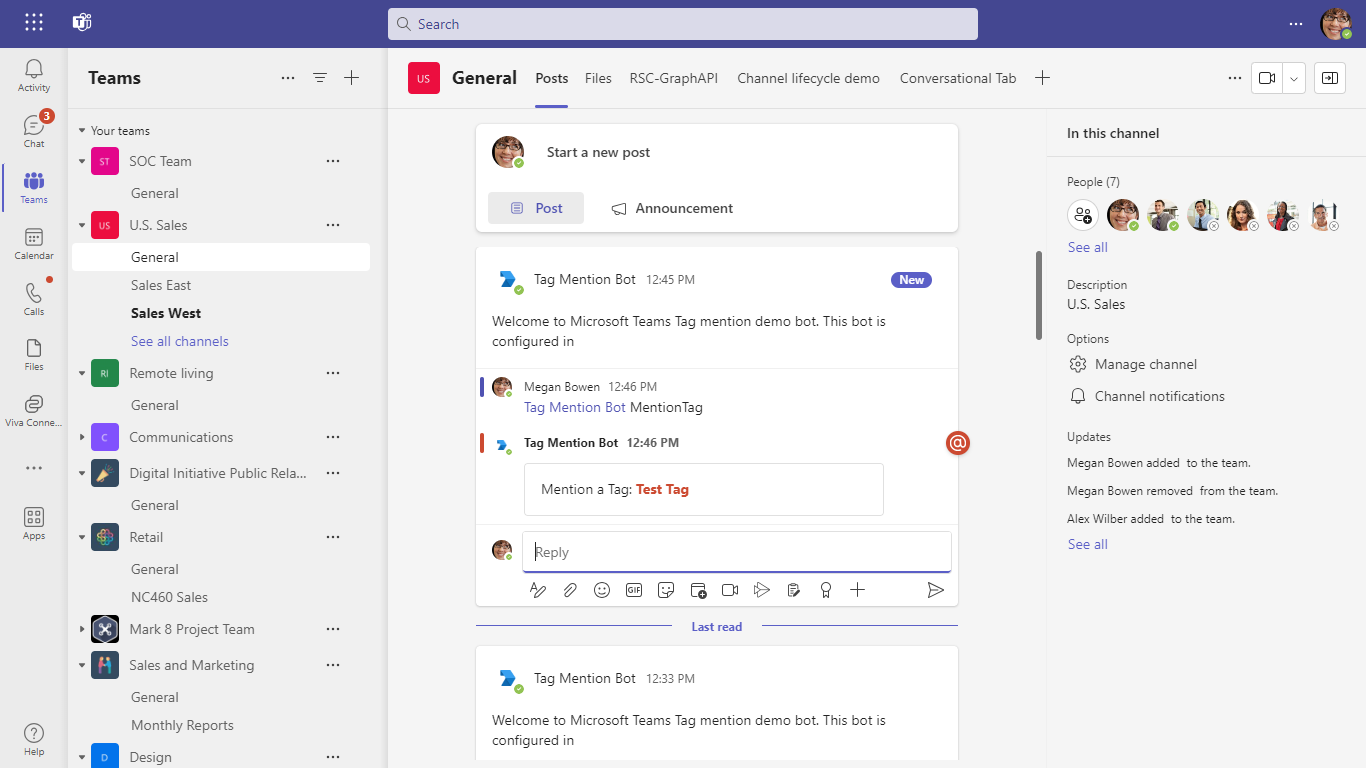
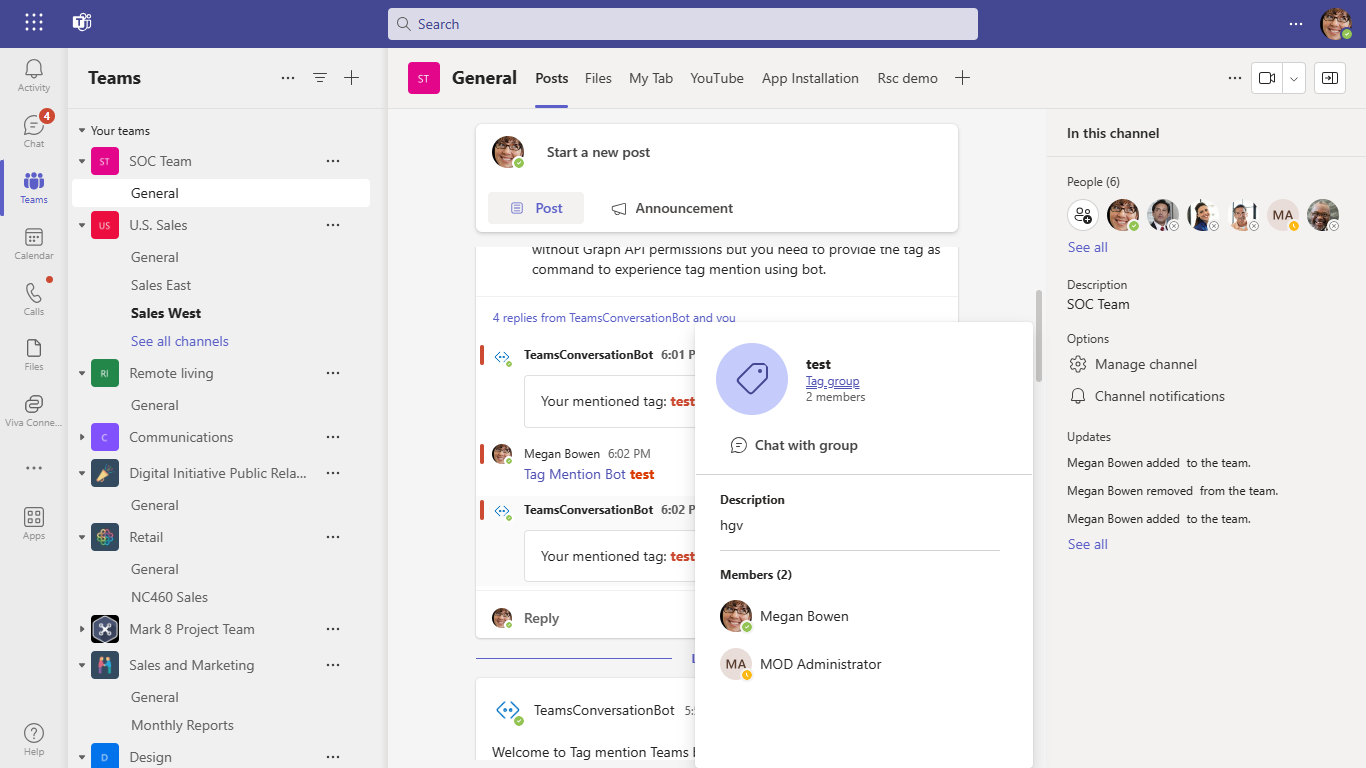
adding additional functionality changes to the code

diff --git a/samples/bot-tag-mention/csharp/Dialogs/MainDialog.cs b/samples/bot-tag-mention/csharp/Dialogs/MainDialog.cs
@@ -3,8 +3,6 @@
 // </copyright>
 
 using System;
-using System.Collections.Generic;
-using System.Diagnostics.Metrics;
 using System.IO;
 using System.Threading;
 using System.Threading.Tasks;
@@ -13,6 +11,7 @@ using Microsoft.Bot.Builder;
 using Microsoft.Bot.Builder.Dialogs;
 using Microsoft.Bot.Builder.Teams;
 using Microsoft.Bot.Schema;
+using Microsoft.Bot.Schema.Teams;
 using Microsoft.Extensions.Configuration;
 using Microsoft.Extensions.Logging;
 using Newtonsoft.Json;
@@ -57,43 +56,76 @@ namespace Microsoft.BotBuilderSamples
             return await stepContext.BeginDialogAsync(nameof(OAuthPrompt), null, cancellationToken);
         }
 
+        private async Task<ResourceResponse> TagMentionAdaptivecard(WaterfallStepContext stepContext, CancellationToken cancellationToken, string tagName, string tagId)
+        {
+            var adaptiveCardTemplate = Path.Combine(".", "Resources", "UserMentionCardTemplate.json");
+            var templateJSON = File.ReadAllText(adaptiveCardTemplate);
+            AdaptiveCardTemplate template = new AdaptiveCardTemplate(templateJSON);
+            var memberData = new
+            {
+                tagId = tagId,
+                tagName = tagName
+            };
+            string cardJSON = template.Expand(memberData);
+            var adaptiveCardAttachment = new Attachment
+            {
+                ContentType = "application/vnd.microsoft.card.adaptive",
+                Content = JsonConvert.DeserializeObject(cardJSON),
+            };
+            return await stepContext.Context.SendActivityAsync(MessageFactory.Attachment(adaptiveCardAttachment), cancellationToken);
+        }
+
         private async Task<DialogTurnResult> MentionTagAsync(WaterfallStepContext stepContext, CancellationToken cancellationToken)
         {
             // Get the token from the previous step. Note that we could also have gotten the
             // token directly from the prompt itself. There is an example of this in the next method.
             var tokenResponse = (TokenResponse)stepContext.Result;
+            bool tagExists = false;
             if (tokenResponse?.Token != null)
             {
                 try
                 {
                     stepContext.Context.Activity.RemoveRecipientMention();
-                    if (stepContext.Context.Activity.Text.Trim().ToLower() == "mentiontag")
+                    if (stepContext.Context.Activity.Text.Trim().ToLower().Contains("<at>"))
                     {
-                        // Pull in the data from the Microsoft Graph.
-                        var client = new SimpleGraphClient(tokenResponse.Token);
-                        var teamID = await TeamsInfo.GetTeamDetailsAsync(stepContext.Context, stepContext.Context.Activity.TeamsGetTeamInfo().Id, cancellationToken);
-                        var result = await client.GetTag(teamID.AadGroupId);
-                        var adaptiveCardTemplate = Path.Combine(".", "Resources", "UserMentionCardTemplate.json");
-                        var templateJSON = File.ReadAllText(adaptiveCardTemplate);
-                        AdaptiveCardTemplate template = new AdaptiveCardTemplate(templateJSON);
-                        var memberData = new
+                        var tagName = stepContext.Context.Activity.Text.Replace("<at>", string.Empty).Replace("</at>", string.Empty).Trim();
+                        var tagID = stepContext.Context.Activity.Entities[1].Properties.First.First.First.First.ToString();
+                        await TagMentionAdaptivecard(stepContext, cancellationToken, tagName, tagID);
+
+                    }
+                    else if (stepContext.Context.Activity.Text.Trim().ToLower() != "")
+                    {
+                        SimpleGraphClient client = null;
+                        TeamDetails teamDetails = null;
+                        try
                         {
-                            tagId = result.CurrentPage[0].Id,
-                            tagName = result.CurrentPage[0].DisplayName
-                        };
-                        string cardJSON = template.Expand(memberData);
-                        var adaptiveCardAttachment = new Attachment
+                            // Pull in the data from the Microsoft Graph.
+                            client = new SimpleGraphClient(tokenResponse.Token);
+                            teamDetails = await TeamsInfo.GetTeamDetailsAsync(stepContext.Context, stepContext.Context.Activity.TeamsGetTeamInfo().Id, cancellationToken);
+                        }
+                        catch (Exception ex)
                         {
-                            ContentType = "application/vnd.microsoft.card.adaptive",
-                            Content = JsonConvert.DeserializeObject(cardJSON),
-                        };
-                        await stepContext.Context.SendActivityAsync(MessageFactory.Attachment(adaptiveCardAttachment), cancellationToken);
+                            await stepContext.Context.SendActivityAsync("You don't have Graph API permissions to fetch tag's information. Please use this command to mention a tag: \"`@<Bot-name>  @<your-tag>`\" to experience tag mention using bot.");
+                        }
+                        var result = await client.GetTag(teamDetails.AadGroupId);
+                        foreach (var tagDetails in result.CurrentPage)
+                        {
+                            if (tagDetails.DisplayName == stepContext.Context.Activity.Text.Trim().ToLower())
+                            {
+                                tagExists = true;
+                                await TagMentionAdaptivecard(stepContext, cancellationToken, tagDetails.DisplayName, tagDetails.Id);
+                                break;
+                            }
+                        }
+                        if (!tagExists)
+                        {
+                            await stepContext.Context.SendActivityAsync("Provided tag name is not available in this team. Please try with another tag name or create a new tag.");
+                        }
                     }
                     else
                     {
-                        await stepContext.Context.SendActivityAsync("Please use **MentionTag** command to demonstrate a tag in this team");
+                        await stepContext.Context.SendActivityAsync("Please provide a tag name while mentioning the bot as \"`@<Bot-name> <your-tag-name>`\" or mention a tag as \"`@<Bot-name> @<your-tag>`\"");
                     }
-                    
                 }
                 catch (Exception ex)
                 {

diff --git a/samples/bot-tag-mention/csharp/Bots/TeamsConversationBot.cs b/samples/bot-tag-mention/csharp/Bots/TeamsConversationBot.cs
@@ -13,7 +13,7 @@ using Microsoft.Extensions.Logging;
 
 namespace Microsoft.BotBuilderSamples.Bots
 {
-    public class TeamsConversationBot<T> : DialogBot<T> where T : Dialog 
+    public class TeamsConversationBot<T> : DialogBot<T> where T : Dialog
     {
         private string _appId;
         private string _appPassword;
@@ -27,7 +27,7 @@ namespace Microsoft.BotBuilderSamples.Bots
         {
             foreach (var teamMember in membersAdded)
             {
-                if(teamMember.Id != turnContext.Activity.Recipient.Id && turnContext.Activity.Conversation.ConversationType != "personal")
+                if (teamMember.Id != turnContext.Activity.Recipient.Id && turnContext.Activity.Conversation.ConversationType != "personal")
                 {
                     await turnContext.SendActivityAsync(MessageFactory.Text($"Welcome to the team {teamMember.GivenName} {teamMember.Surname}."), cancellationToken);
                 }
@@ -36,9 +36,9 @@ namespace Microsoft.BotBuilderSamples.Bots
 
         protected override async Task OnInstallationUpdateActivityAsync(ITurnContext<IInstallationUpdateActivity> turnContext, CancellationToken cancellationToken)
         {
-            if(turnContext.Activity.Conversation.ConversationType == "channel")
+            if (turnContext.Activity.Conversation.ConversationType == "channel")
             {
-                await turnContext.SendActivityAsync($"Welcome to Microsoft Teams Tag mention demo bot. This bot is configured in {turnContext.Activity.Conversation.Name}");
+                await turnContext.SendActivityAsync($"Welcome to Tag mention Teams bot app. Please follow the below commands for mentioning the tags: \r\n\r\n\r\n1. Command: \"`@<Bot-name> <your-tag-name>`\" - It will work only if you have Graph API permissions to fetch the tags and bot will mention the tag accordingly in team's channel scope.\r\n\r\n\r\n2. Command \"`@<Bot-name> @<your-tag>`\" - It will work without Graph API permissions but you need to provide the tag as command to experience tag mention using bot.");
             }
             else
             {

diff --git a/samples/bot-tag-mention/csharp/README.md b/samples/bot-tag-mention/csharp/README.md
@@ -23,13 +23,14 @@ This sample app demonstrates the use of tag mention funtionality in teams scope 
 * Teams Conversation Events
 
 ## Interaction with bot
-![Tag-mention ](Images/Tag-mention.gif)
+![Tag-mention ](Images/Tag-mention-bot.gif)
 
 ## Prerequisites
 
 - Microsoft Teams is installed and you have an account
 - [.NET SDK](https://dotnet.microsoft.com/download) version 6.0
 - [dev tunnel](https://learn.microsoft.com/en-us/azure/developer/dev-tunnels/get-started?tabs=windows) or [ngrok](https://ngrok.com/) latest version or equivalent tunnelling solution
+- Create tags within the team channel prior to utilizing the bot.
 
 ## Setup
 
@@ -92,11 +93,11 @@ the Teams service needs to call into the bot.
 You can interact with this bot in Teams by sending it a message, or selecting a command from the command list. The bot will respond to the following strings.
 
 1. **Show Welcome**
-  - **Result:** The bot will send the welcome card for you to interact with
+  - **Result:** The bot will send the welcome card for you to interact with necessary commands
   - **Valid Scopes:** team chat
 
    **Show Welcome command interaction:**
-  ![groupChat-BotCommands-interactions ](Images/team-BotCommands-interactions.png)
+  ![groupChat-BotCommands-interactions ](Images/team-BotCommands-interaction.png)
 
 2. **MentionTag**
   - **Result:** The bot will respond to the message and mention a tag
@@ -105,13 +106,21 @@ You can interact with this bot in Teams by sending it a message, or selecting a 
   - **Team Scope Interactions:**
 
    **MentionTag command interaction:**
+   **Command 1:** `@<Bot-name> <your-tag-name>` - It will work only if you have Graph API permissions to fetch the tags and bot will mention the tag accordingly in team's channel scope.
   ![team-MentionCommand-Interaction ](Images/team-MentionCommand-Interaction.png)
 
-  **Show a tag mention adaptive card interaction:**
+   **Command 2:** `@<Bot-name> @<your-tag>` - It will work without Graph API permissions but you need to provide the tag as command to experience tag mention using bot.
+  ![team-MentionCommand-Interaction ](Images/team-MentionCommand-Interaction1.png)
+
+   **Hover on the tag to view the details card:**
   ![team-MentionCommand-Interaction ](Images/team-MentionCommand-Interaction-2.png)
 
-  **Hover on the tag to view the details card:**
+  **Message interaction:**
+  When you mention the bot in Teams without providing any commands, you will receive the following message.
   ![team-MentionCommand-Interaction ](Images/team-MentionCommand-Interaction-3.png)
+
+  If you attempt to use the bot before creating a tag or if you provide an incorrect tag name, you will receive the following message.
+  ![team-MentionCommand-Interaction ](Images/team-MentionCommand-Interaction-4.png)
 
 ## Deploy the bot to Azure
 
